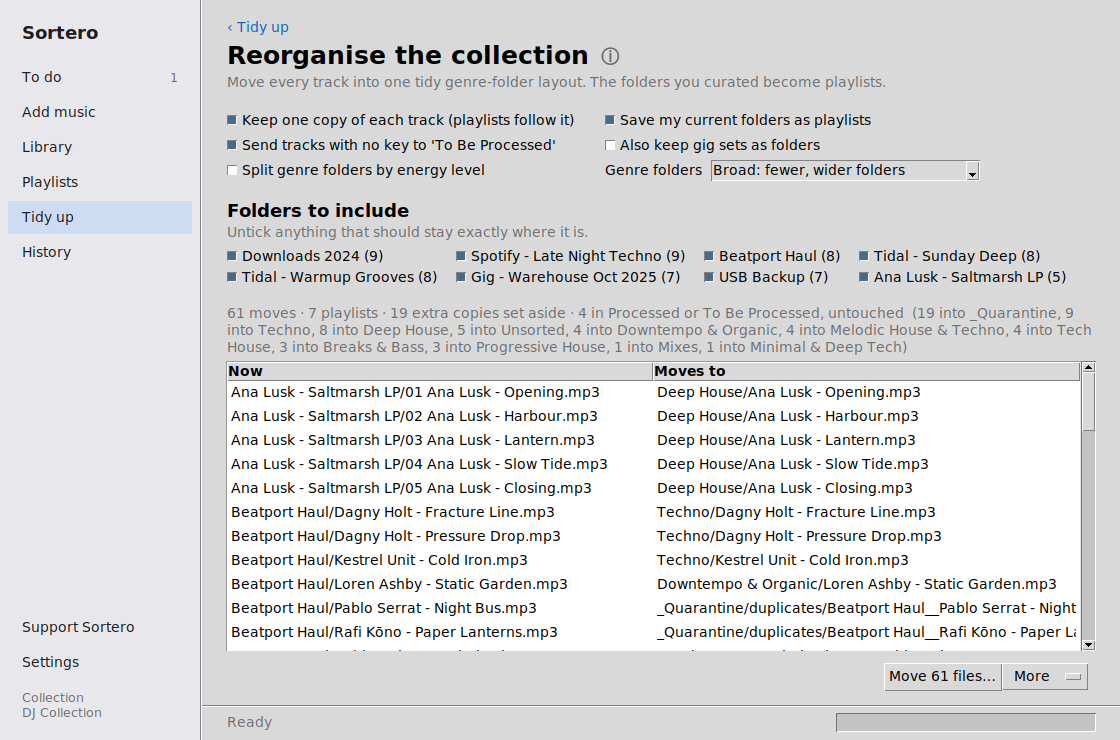
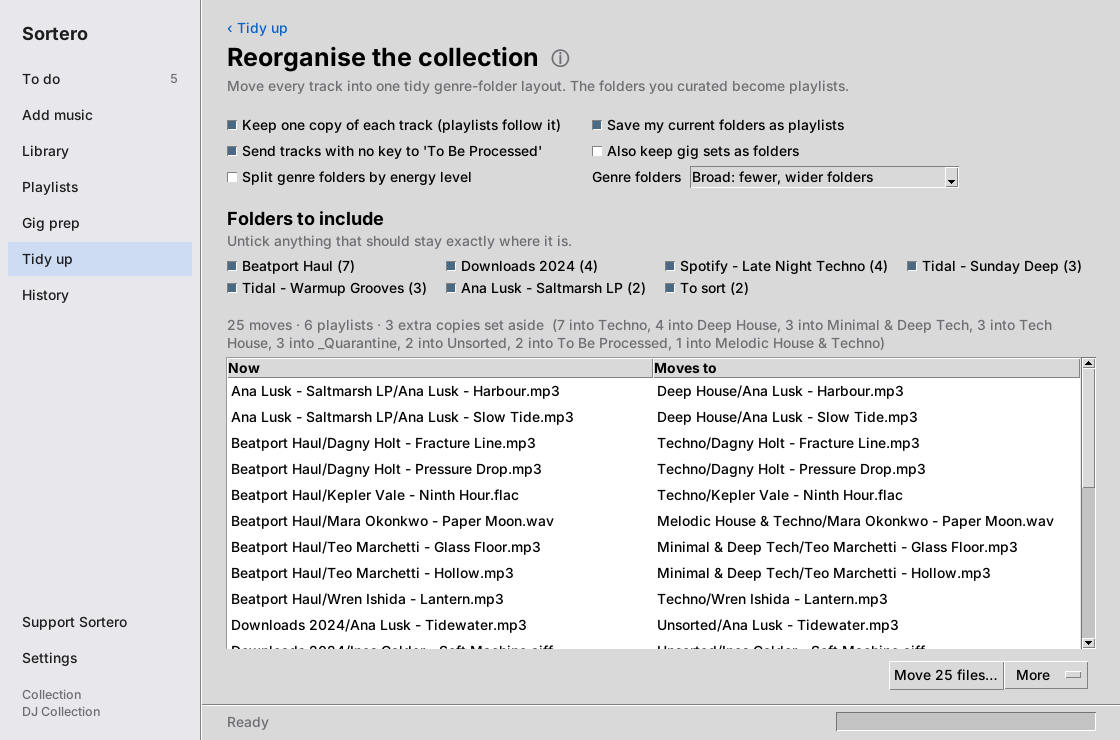
Retake the README screenshots and add Gig prep
tools/screenshots.py builds a made-up collection in a temporary home and
drives every main screen, so the screenshots can be retaken whenever the
app changes. To do now shows the damaged-header repair, Clean tags a
swapped track, and Duplicates exact copies.

Claude-Session: https://claude.ai/code/session_01DppCsGS6prJvV4kRXkPKrp

diff --git a/tools/screenshots.py b/tools/screenshots.py
@@ -1,0 +1,260 @@
+#!/usr/bin/env python3
+"""Take the README's screenshots: every main screen, on a made-up collection.
+
+    xvfb-run -s "-screen 0 1200x800x24" python tools/screenshots.py docs/screenshots
+
+Needs ffmpeg (a full one, for making the sample audio) and ImageMagick's
+`import`. Nothing touches your own collection or settings: the sample
+collection, Sortero's settings and the "stick" all live in a temporary
+folder. Artists and titles are made up.
+
+The stick Gig prep checks is a plain folder, so there's no real file system
+to read; the script reports it as FAT32 on one MBR partition, which is what
+a stick Sortero formatted would be, so the screenshot shows a stick that
+passes.
+"""
+import base64, json, os, shutil, subprocess, sys, tempfile, zlib
+
+OUT = os.path.abspath(sys.argv[1] if len(sys.argv) > 1 else "docs/screenshots")
+HOME = tempfile.mkdtemp(prefix="sortero-shots-")
+os.environ.update(HOME=HOME, XDG_CONFIG_HOME=f"{HOME}/.config",
+                  XDG_DATA_HOME=f"{HOME}/.local/share",
+                  PYTHON_KEYRING_BACKEND="keyring.backends.null.Keyring")
+sys.path.insert(0, os.path.dirname(os.path.dirname(os.path.abspath(__file__))))
+
+from mutagen.id3 import COMM, GEOB, ID3, TBPM, TCON, TIT2, TKEY, TPE1, TXXX  # noqa: E402
+
+ROOT = os.path.join(HOME, "Music", "DJ Collection")
+STICK = os.path.join(HOME, "GIG")
+
+# (artist, title, genre or None, camelot key or None, bpm, energy or None, folders)
+TRACKS = [
+    ("Ana Lusk", "Saltmarsh", "Deep House", "9B", 121, 9, ["Spotify - Late Night Techno"]),
+    ("Ana Lusk", "Harbour", "Deep House", "1B", 120, 5, ["Ana Lusk - Saltmarsh LP"]),
+    ("Ana Lusk", "Slow Tide", "Deep House", "1B", 120, 5, ["Ana Lusk - Saltmarsh LP"]),
+    ("Ana Lusk", "Tidewater", None, "4B", 118, 4, ["Downloads 2024", "Tidal - Sunday Deep"]),
+    ("Dagny Holt", "Fracture Line", "Techno (Hypnotic)", "6A", 128, 7,
+     ["Beatport Haul", "Spotify - Late Night Techno"]),
+    ("Dagny Holt", "Pressure Drop", "Techno (Hypnotic)", "5A", 129, 8, ["Beatport Haul"]),
+    ("Halden Voss", "Hydraulic", "Techno (Peak Time)", "3A", 136, 7, ["Tidal - Warmup Grooves"]),
+    ("Halden Voss", "Subgrid", "Techno (Peak Time)", "5A", 133, 8,
+     ["Spotify - Late Night Techno", "Tidal - Warmup Grooves"]),
+    ("Ines Calder", "Microfiche", "Minimal / Deep Tech", "4A", 126, 3, ["Tidal - Warmup Grooves"]),
+    ("Ines Calder", "Soft Machine", None, "7A", 125, 3, ["Downloads 2024"]),
+    ("Juno Farrow", "Carousel", "Tech House", "3A", 126, None, ["Tidal - Sunday Deep"]),
+    ("Juno Farrow", "Glasshouse", "Tech House", "8A", 124, 7, ["Spotify - Late Night Techno"]),
+    ("Kepler Vale", "Ninth Hour", "Techno (Hypnotic)", "8A", 140, 6, ["Beatport Haul"]),
+    ("Kepler Vale", "Lowlight", "Techno (Hypnotic)", None, 138, None, ["To sort"]),
+    ("Mara Okonkwo", "Paper Moon", "Melodic House & Techno", "10A", 122, 6, ["Beatport Haul"]),
+    ("Mara Okonkwo", "Static Bloom", None, None, 123, None, ["To sort"]),
+    ("Rue Okafor", "Tidewater Dub", "Deep House", "2A", 119, 4, ["Tidal - Sunday Deep"]),
+    ("Sable Achterberg", "Night Bus", "Tech House", "11B", 127, 6, ["Downloads 2024"]),
+    ("Teo Marchetti", "Hollow", "Minimal / Deep Tech", "6B", 127, 5, ["Beatport Haul"]),
+    ("Teo Marchetti", "Glass Floor", "Minimal / Deep Tech", "6A", 128, 6, ["Beatport Haul"]),
+    ("Wren Ishida", "Lantern", "Techno (Peak Time)", "10A", 135, 8, ["Beatport Haul"]),
+]
+# Title - Artist, the wrong way round, and tags that say so
+SWAPPED = [("Wren Ishida", "Undertow", "Techno (Peak Time)", "9A", 134, 8, ["Downloads 2024"])]
+# What a gig needs copies of: a hi-res WAV and a FLAC. And one AIFF whose
+# header an old Sortero damaged, for To do to offer to repair.
+NEEDS_COPY = {("Kepler Vale", "Ninth Hour"): ("flac", 96000),
+              ("Mara Okonkwo", "Paper Moon"): ("wav", 96000)}
+DAMAGED = {("Ines Calder", "Soft Machine")}
+PLAYLISTS = {"Warmup": [("Ana Lusk", "Harbour"), ("Ines Calder", "Microfiche"),
+                        ("Rue Okafor", "Tidewater Dub"), ("Juno Farrow", "Carousel")],
+             "Peak": [("Dagny Holt", "Fracture Line"), ("Kepler Vale", "Ninth Hour"),
+                      ("Halden Voss", "Subgrid"), ("Mara Okonkwo", "Paper Moon")],
+             "Closing": [("Ana Lusk", "Slow Tide"), ("Teo Marchetti", "Hollow")]}
+
+
+def mik(obj):
+    b64 = base64.b64encode(json.dumps({**obj, "source": "mixedinkey"}).encode()).decode()
+    return "".join(b64[i:i + 72] + "\n" for i in range(0, len(b64), 72)).encode()
+
+
+def make_audio(path, kind="mp3", rate=44100, tone=440):
+    codec = {"mp3": ["-c:a", "libmp3lame", "-b:a", "320k"], "flac": ["-c:a", "flac"],
+             "wav": ["-c:a", "pcm_s24le"], "aiff": ["-c:a", "pcm_s16be"]}[kind]
+    subprocess.run(["ffmpeg", "-v", "error", "-y", "-f", "lavfi", "-i",
+                    f"sine=frequency={tone}:sample_rate={rate}:duration=3",
+                    "-ac", "2", *codec, path], check=True)
+
+
+def tag(path, artist, title, genre, key, bpm, energy):
+    frames = [TPE1(encoding=3, text=[artist]), TIT2(encoding=3, text=[title]),
+              TBPM(encoding=3, text=[str(bpm)])]
+    if genre:
+        frames.append(TCON(encoding=3, text=[genre]))
+    if key:
+        frames.append(TKEY(encoding=3, text=[key]))
+    if energy:
+        frames += [TXXX(encoding=3, desc="EnergyLevel", text=[str(energy)]),
+                   COMM(encoding=3, lang="eng", desc="", text=[f"{key} - Energy {energy}"]),
+                   GEOB(encoding=3, mime="application/json", desc="CuePoints", filename="",
+                        data=mik({"algorithm": 14, "cues": [
+                            {"name": f"Energy {energy}", "time": 15.0},
+                            {"name": f"Energy {energy + 1}", "time": 1500.0}]}))]
+    if path.endswith(".flac"):
+        from mutagen.flac import FLAC
+        f = FLAC(path)
+        f["ARTIST"], f["TITLE"], f["BPM"] = artist, title, str(bpm)
+        if genre:
+            f["GENRE"] = genre
+        if key:
+            f["INITIALKEY"] = key
+        f.save()
+        return
+    if path.endswith((".wav", ".aiff")):
+        import mutagen
+        f = mutagen.File(path)
+        f.add_tags()
+        for fr in frames:
+            f.tags.add(fr)
+        f.save(v2_version=3)
+        return
+    t = ID3()
+    for fr in frames:
+        t.add(fr)
+    t.save(path, v2_version=3)
+
+
+def build_collection():
+    where = {}
+    swapped = {(a, t) for a, t, *_ in SWAPPED}
+    for artist, title, genre, key, bpm, energy, folders in TRACKS + SWAPPED:
+        kind, rate = NEEDS_COPY.get((artist, title), ("mp3", 44100))
+        if (artist, title) in DAMAGED:
+            kind = "aiff"
+        # the same tone for every copy of a track, so Duplicates finds exact ones
+        tone = 200 + zlib.crc32(f"{artist}{title}".encode()) % 700
+        for folder in folders:
+            os.makedirs(os.path.join(ROOT, folder), exist_ok=True)
+            if (artist, title) in swapped:     # "Title - Artist", tagged to match
+                name, a, t = f"{title} - {artist}", title, artist
+            else:
+                name, a, t = f"{artist} - {title}", artist, title
+            path = os.path.join(ROOT, folder, f"{name}.{kind}")
+            make_audio(path, kind, rate, tone)
+            tag(path, a, t, genre, key, bpm, energy)
+            if (artist, title) in DAMAGED:     # what the old tag writer did
+                stray = ID3()
+                stray.add(TKEY(encoding=3, text=[key]))
+                stray.save(path, v2_version=3)
+            where.setdefault((artist, title), path)
+    junk = os.path.join(ROOT, "Downloads 2024", "Sable Achterberg - Night Bus.mp3")
+    t = ID3(junk)
+    t.delall("COMM")
+    t.add(COMM(encoding=3, lang="eng", desc="", text=["www.djsoundtop.com"]))
+    t.save(junk, v2_version=3)
+    pl = os.path.join(ROOT, "_Playlists")
+    os.makedirs(pl, exist_ok=True)
+    for name, tracks in PLAYLISTS.items():
+        with open(os.path.join(pl, f"{name}.m3u8"), "w", encoding="utf-8") as fh:
+            fh.write("#EXTM3U\n")
+            for k in tracks:
+                fh.write(os.path.relpath(where[k], pl) + "\n")
+    os.makedirs(STICK)
+
+
+def main():
+    if not shutil.which("ffmpeg") or not shutil.which("import"):
+        sys.exit("Needs ffmpeg and ImageMagick's import on the PATH.")
+    build_collection()
+    from sortero import settings
+    settings.set("root", ROOT)
+    settings.set("setup_complete", True)
+    settings.set("check_updates_on_launch", False)
+    settings.set("gig_playlists", ["Warmup", "Peak"])
+
+    from tkinter import messagebox, filedialog
+    messagebox.askyesno = lambda *a, **k: True
+    messagebox.showinfo = lambda *a, **k: None
+    filedialog.askdirectory = lambda **k: STICK
+    from sortero.gig import disks, profiles
+    disks.volume = lambda mount: disks.Volume(mount, profiles.FAT32, disks.MBR, 1)
+
+    from sortero.app import Sortero
+    app = Sortero()
+    app._maybe_check_licence = lambda: None
+    os.makedirs(OUT, exist_ok=True)
+
+    def shot(name):
+        app.update_idletasks()
+        app.update()
+        subprocess.run(["import", "-window", app.wm_frame(), os.path.join(OUT, name + ".png")],
+                       check=True)
+        print("saved", name)
+
+    def idle(then, need=lambda: True):
+        if app.task.running or not need():
+            app.after(250, lambda: idle(then, need))
+        else:
+            app.after(600, then)
+
+    steps = []
+
+    def step(fn):
+        steps.append(fn)
+        return fn
+
+    def go():
+        if steps:
+            steps.pop(0)()
+        else:
+            app.destroy()
+
+    @step
+    def todo():
+        app.show("todo")
+        app.after(800, lambda: (shot("todo"), go()))
+
+    @step
+    def library():
+        app.show("library")
+        app.after(800, lambda: (shot("library"), go()))
+
+    @step
+    def tidy():
+        app.show("tidy")
+        app.after(800, lambda: (shot("tidy-up"), go()))
+
+    @step
+    def tags():
+        app.show("tags")
+        app.screens["tags"].preview()
+        idle(lambda: (shot("clean-tags"), go()))
+
+    @step
+    def dupes():
+        app.show("dupes")
+        app.screens["dupes"].find()
+        idle(lambda: (shot("duplicates"), go()))
+
+    @step
+    def reorganise():
+        app.show("reorganise")
+        app.screens["reorganise"].preview()
+        idle(lambda: (shot("reorganise"), go()))
+
+    @step
+    def gig():
+        app.show("gig")
+        g = app.screens["gig"]
+        chain = [g.check_tracks, g.make_copies, g.make_xml,
+                 lambda: (getattr(g, "how_win", None) and g.how_win.destroy(), g.write_stick())]
+
+        def next_action():
+            if chain:
+                chain.pop(0)()
+                idle(next_action, lambda: not app.task.running)
+            else:
+                idle(lambda: (shot("gig-prep"), go()), lambda: g.state.report is not None)
+        app.after(800, next_action)
+
+    idle(go, lambda: app.health is not None)
+    app.mainloop()
+    shutil.rmtree(HOME, ignore_errors=True)
+
+
+if __name__ == "__main__":
+    main()

diff --git a/README.md b/README.md
@@ -63,6 +63,11 @@ folders as playlists.
 
 ![Reorganise](docs/screenshots/reorganise.png)
 
+**Gig prep** takes a set from playlists to a checked USB stick, one step at a
+time, and ends with a GIG READY or NOT READY verdict.
+
+![Gig prep](docs/screenshots/gig-prep.png)
+
 ## Layout it produces
 
 ```
@@ -420,6 +425,8 @@ original is set aside in `_Quarantine/damaged headers`, and History undoes it.
 A gig stick has to play on whatever players the venue has, and the time to find
 out it doesn't is before you leave. **Gig prep** walks through it as a checklist,
 with the next step always on the blue button.
+
+![Gig prep, with every step done and the stick checked: GIG READY](docs/screenshots/gig-prep.png)
 
 1. **Choose the playlists.** Tick them in the order you'll play them.
 2. **Check the tracks.** Each one is checked against what Pioneer's own manuals
